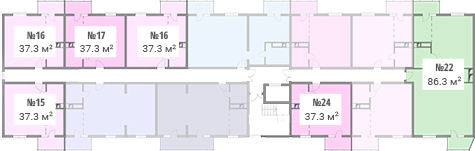
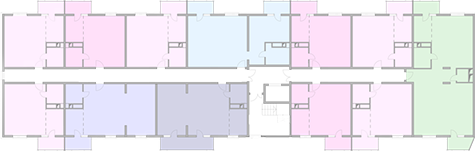
flat scheme

diff --git a/03_flat.html b/03_flat.html
@@ -208,23 +208,44 @@
                         <h3>Квартира на этаже</h3>
 
                         <div class="flat-floor-container">
-                            <div class="flat-floor-content">
-                                <img src="files/flat-floor.png" alt="" width="475" height="151" class="flat-floor-scheme" usemap="#flat-floor-scheme" />
-                                <map name="flat-floor-scheme">
-                                    <area shape="poly" coords="4,84,65,83,64,150,38,149,37,136,3,136" href="#" alt="" />
-                                    <area shape="poly" coords="37,2,64,2,64,68,4,68,3,15,37,15" href="#" alt="" />
-                                    <area shape="poly" coords="65,2,91,2,91,13,125,14,123,68,65,68" href="#" alt="" />
-                                    <area shape="poly" coords="160,0,186,1,187,68,125,68,124,15,160,14" href="#" alt="" />
-                                    <area shape="poly" coords="352,82,351,151,325,150,324,137,290,136,290,81" href="#" alt="" />
-                                    <area shape="poly" coords="414,2,438,1,438,13,475,13,475,137,469,150,447,150,447,137,414,134,412,82,405,82,405,67,411,67,414,68" href="#" alt="" />
-                                </map>
-                                <div class="flat-floor-scheme-hint">
-                                    <div class="flat-floor-scheme-hint-item">Купленная 1-комнатная квартира / <span>37.3 м&sup2;</span></div>
-                                    <div class="flat-floor-scheme-hint-item">Купленная 1-комнатная квартира / <span>37.3 м&sup2;</span></div>
-                                    <div class="flat-floor-scheme-hint-item">Свободная 1-комнатная квартира / <span>37.3 м&sup2;</span></div>
-                                    <div class="flat-floor-scheme-hint-item">Купленная 1-комнатная квартира / <span>37.3 м&sup2;</span></div>
-                                    <div class="flat-floor-scheme-hint-item">Свободная 1-комнатная квартира / <span>37.3 м&sup2;</span></div>
-                                    <div class="flat-floor-scheme-hint-item">Свободная 2-комнатная квартира / <span>86.3 м&sup2;</span></div>
+                            <div class="choose-window-flat-scheme">
+                                <div class="choose-window-flat-scheme-inner">
+                                    <img src="images/blank.gif" alt="" width="475" height="151" class="choose-window-map" usemap="#choose-window-map" />
+                                    <map name="choose-window-map">
+                                        <area shape="poly" coords="3,83,65,82,64,150,38,149,38,136,3,136" href="#" alt="" data-maphilight='{"stroke":false, "fillColor":"0000ff", "fillOpacity":0.4, "alwaysOn":true}' data-maphilighthover='{"stroke":false, "fillColor":"0000ff", "fillOpacity":1, "alwaysOn":true}' />
+                                        <area shape="poly" coords="38,2,64,2,64,68,4,68,3,15,38,15" href="#" alt="" data-maphilight='{"stroke":false, "fillColor":"0000ff", "fillOpacity":0.4, "alwaysOn":true}' data-maphilighthover='{"stroke":false, "fillColor":"0000ff", "fillOpacity":1, "alwaysOn":true}' />
+                                        <area shape="poly" coords="64,2,91,1,91,15,125,15,125,68,65,68" href="#" alt="" data-maphilight='{"stroke":false, "fillColor":"0000ff", "fillOpacity":0.4, "alwaysOn":true}' data-maphilighthover='{"stroke":false, "fillColor":"ff0000", "fillOpacity":1, "alwaysOn":true}' />
+                                        <area shape="poly" coords="187,0,187,68,125,69,126,15,161,15,160,2" href="#" alt="" data-maphilight='{"stroke":false, "fillColor":"0000ff", "fillOpacity":0.4, "alwaysOn":true}' data-maphilighthover='{"stroke":false, "fillColor":"0000ff", "fillOpacity":1, "alwaysOn":true}' />
+                                        <area shape="poly" coords="290,83,351,82,351,149,325,149,325,136,290,136" href="#" alt="" data-maphilight='{"stroke":false, "fillColor":"0000ff", "fillOpacity":0.4, "alwaysOn":true}' data-maphilighthover='{"stroke":false, "fillColor":"0000ff", "fillOpacity":1, "alwaysOn":true}' />
+                                        <area shape="poly" coords="439,1,439,15,474,15,474,136,469,149,447,149,448,136,413,136,412,83,405,83,405,68,413,67,413,2" href="#" alt="" data-maphilight='{"stroke":false, "fillColor":"00ff00", "fillOpacity":0.4, "alwaysOn":true}' data-maphilighthover='{"stroke":false, "fillColor":"00ff00", "fillOpacity":1, "alwaysOn":true}' />
+                                    </map>
+
+                                    <img src="files/flat-floor.png" alt="" class="choose-window-map-scheme-back" />
+
+                                    <div class="flat-floor-scheme-floor-title" style="left:14px; top:94px"><strong>№14</strong>37.3 м&sup2;</div>
+                                    <div class="flat-floor-scheme-floor-title" style="left:14px; top:26px"><strong>№15</strong>37.3 м&sup2;</div>
+                                    <div class="flat-floor-scheme-floor-title" style="left:75px; top:26px"><strong>№16</strong>37.3 м&sup2;</div>
+                                    <div class="flat-floor-scheme-floor-title" style="left:137px; top:26px"><strong>№17</strong>37.3 м&sup2;</div>
+                                    <div class="flat-floor-scheme-floor-title" style="left:300px; top:94px"><strong>№24</strong>37.3 м&sup2;</div>
+                                    <div class="flat-floor-scheme-floor-title" style="left:423px; top:59px"><strong>№22</strong>86.3 м&sup2;</div>
+
+                                    <img src="images/blank.gif" alt="" class="choose-window-map-scheme" usemap="#choose-window-map-scheme" />
+                                    <map name="choose-window-map-scheme">
+                                        <area shape="poly" coords="3,83,65,82,64,150,38,149,38,136,3,136" href="#" alt="" />
+                                        <area shape="poly" coords="38,2,64,2,64,68,4,68,3,15,38,15" href="#" alt="" />
+                                        <area shape="poly" coords="64,2,91,1,91,15,125,15,125,68,65,68" href="#" alt="" />
+                                        <area shape="poly" coords="187,0,187,68,125,69,126,15,161,15,160,2" href="#" alt="" />
+                                        <area shape="poly" coords="290,83,351,82,351,149,325,149,325,136,290,136" href="#" alt="" />
+                                        <area shape="poly" coords="439,1,439,15,474,15,474,136,469,149,447,149,448,136,413,136,412,83,405,83,405,68,413,67,413,2" href="#" alt="" />
+                                    </map>
+                                    <div class="flat-floor-scheme-hint">
+                                        <div class="flat-floor-scheme-hint-item">Купленная 1-комнатная квартира / <span>37.3 м&sup2;</span><strong>3 630 944 руб.</strong></div>
+                                        <div class="flat-floor-scheme-hint-item">Купленная 1-комнатная квартира / <span>37.3 м&sup2;</span><strong>3 630 944 руб.</strong></div>
+                                        <div class="flat-floor-scheme-hint-item">Свободная 1-комнатная квартира / <span>37.3 м&sup2;</span><strong>3 630 944 руб.</strong></div>
+                                        <div class="flat-floor-scheme-hint-item">Купленная 1-комнатная квартира / <span>37.3 м&sup2;</span><strong>3 630 944 руб.</strong></div>
+                                        <div class="flat-floor-scheme-hint-item">Свободная 1-комнатная квартира / <span>37.3 м&sup2;</span><strong>3 630 944 руб.</strong></div>
+                                        <div class="flat-floor-scheme-hint-item">Свободная 2-комнатная квартира / <span>86.3 м&sup2;</span><strong>5 630 944 руб.</strong></div>
+                                    </div>
                                 </div>
                             </div>
                         </div>

diff --git a/css/styles.css b/css/styles.css
@@ -638,9 +638,10 @@ footer {height:160px; position:relative; margin:-160px 0 0 0; background:#fff}
 .choose-window-flat-scheme-inner {display:inline-block; position:relative; vertical-align:top}
 .choose-window-map {display:block; position:relative}
 .choose-window-map-scheme-back {display:block; position:absolute; left:0; top:0; width:100%; height:100%}
-.flat-floor-scheme-floor-title {position:absolute; background:#fff; padding:3px 8px; text-align:center; font-size:15px; line-height:20px; letter-spacing:0}
+.flat-floor-scheme-floor-title {position:absolute; background:#fff; padding:3px 8px; text-align:center; font-size:15px; line-height:20px; letter-spacing:0; white-space:nowrap}
 .flat-floor-scheme-floor-title strong {display:block; font-family:"Roboto Slab", serif}
 .choose-window-map-scheme {display:block; position:absolute; left:0; top:0; width:100%; height:100%}
+.flat-floor-container .flat-floor-scheme-floor-title {font-size:10px; line-height:14px; padding-left:5px; padding-right:5px}
 
 .choose-results {padding:14px 60px 65px 60px; background:#fff}
 .choose-results h2 {text-align:center; margin-bottom:37px}
@@ -777,8 +778,6 @@ h1+.campaigns-list {padding:0}
 .flat-floor h3 {margin:0; padding:38px 0 0 0; text-align:center}
 
 .flat-floor-container {text-align:center; line-height:0; padding:35px 0 0 0}
-.flat-floor-content {display:inline-block; position:relative; vertical-align:top}
-.flat-floor-scheme {position:relative; margin:36px 0 0 0}
 .flat-floor-scheme-hint-item {position:fixed; left:0; top:0; margin:30px 0 0 -23px; z-index:10; display:none; white-space:nowrap; text-align:center; background:#fff; padding:9px 20px 12px 20px; color:#555; line-height:25px; box-shadow:0 0 7px rgba(18, 30, 53, .5); border-radius:3px}
 .flat-floor-scheme-hint-item:before {content:""; display:block; position:absolute; left:17px; top:-6px; width:0; height:0; border-bottom:6px solid #fff; border-left:6px solid transparent; border-right:6px solid transparent}
 .flat-floor-scheme-hint-item span {color:#629e2a}

diff --git a/js/tools.js b/js/tools.js
@@ -569,22 +569,7 @@ var stopScrollGallery = false;
             e.preventDefault();
         });
 
-        $('map[name="flat-floor-scheme"] area').hover(
-            function(e) {
-                var curIndex = $('map[name="flat-floor-scheme"] area').index($(this));
-                $('.flat-floor-scheme-hint-item').eq(curIndex).show().css({'left': e.pageX - $(window).scrollLeft(), 'top': e.pageY - $(window).scrollTop()});
-            },
-
-            function(e) {
-                $('.flat-floor-scheme-hint-item').hide();
-                var curIndex = $('map[name="flat-floor-scheme"] area').index($(this));
-            }
-        );
-
-        $('map[name="flat-floor-scheme"] area').mousemove(function(e) {
-            var curIndex = $('map[name="flat-floor-scheme"] area').index($(this));
-            $('.flat-floor-scheme-hint-item').eq(curIndex).show().css({'left': e.pageX - $(window).scrollLeft(), 'top': e.pageY - $(window).scrollTop()});
-        });
+        $('.flat-floor-container .choose-window-map').maphilight();
 
         $('.photo-gallery-item').each(function() {
             var curSlider = $(this);
